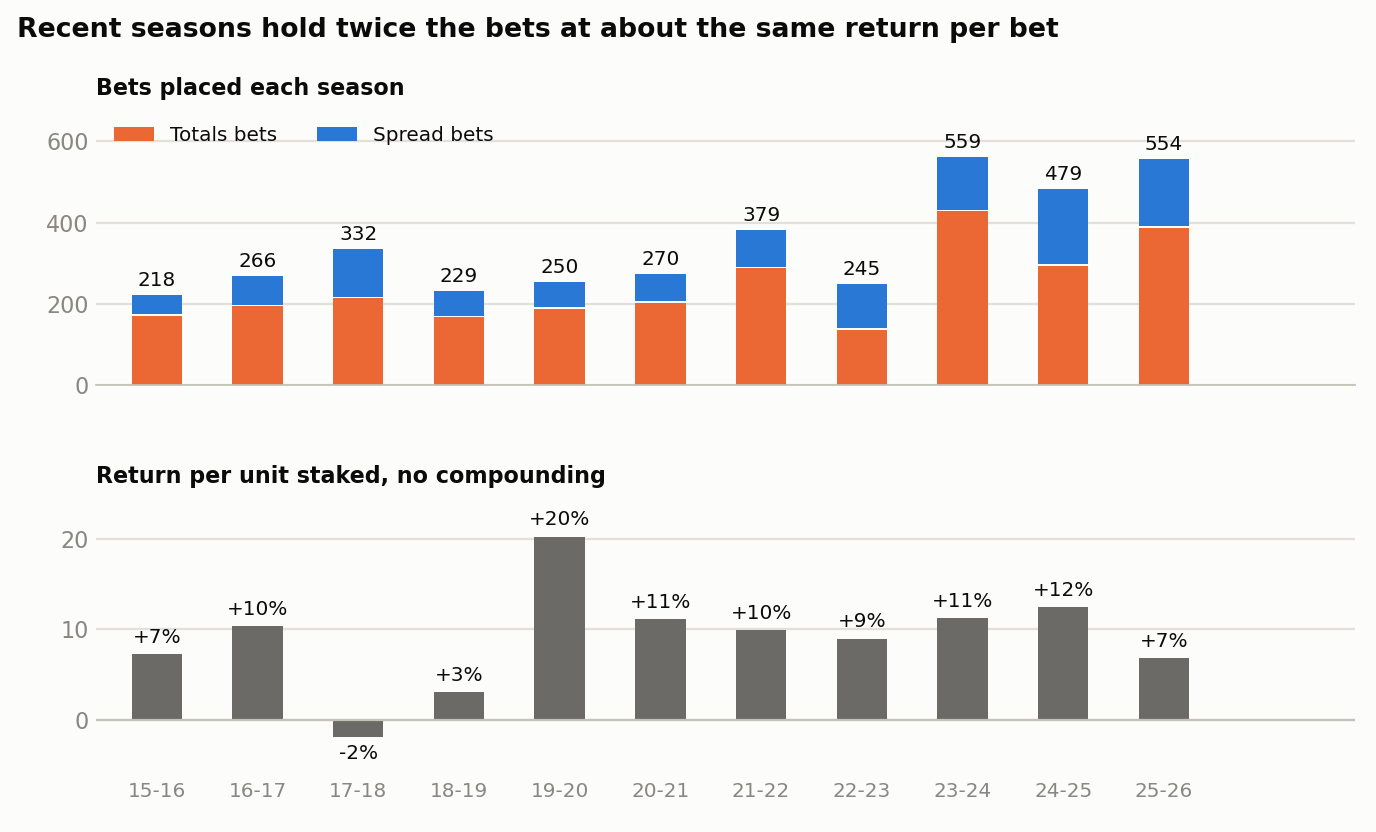
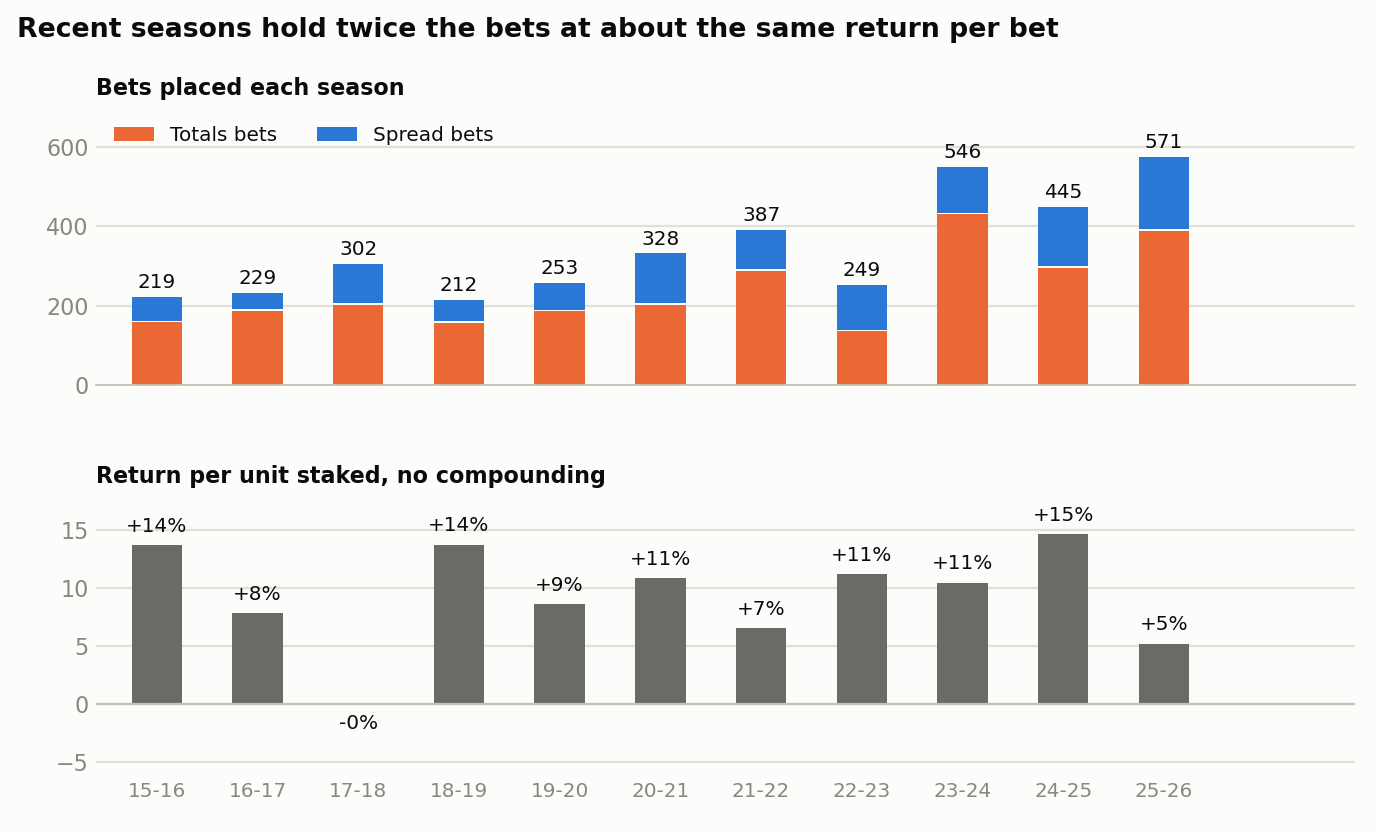
Spread backtest rebuilt on weights learned from earlier seasons; front chart shows return per unit staked

diff --git a/docs/STRATEGIES.md b/docs/STRATEGIES.md
@@ -16,17 +16,17 @@ Everything here assumes the opening line is actually bet, which has not been sho
 
 | Strategy | Bets per season | Cover | ROI per bet | Season return at 1% stakes | Status |
 |---|---|---|---|---|---|
-| Spread, model gap 2+ points | 54 | 58.3% | +11.3% | +6.1% | Backtest only |
+| Spread, model gap 2+ points | 57 | 56.4% | +7.7% | +4.4% | Backtest only |
 | Totals, model gap 2+ points | 170 | 55.3% | +5.5% | +9.3% | Passed a pre-declared test |
 | Totals, same rule on 2007-12 (never tuned on) | 137 | 57.4% | +9.5% | +13.0% | Holdout |
 | Totals, bet only within 1 point of the opener | about 140 | about 55.3% | about +5.5% | about +8% | Under live test |
-| Either rule, stake in proportion to the gap | same bets | same | +12.2% spread, +6.9% totals | +8.4%, +16.1% | Logged beside the flat stake |
+| Either rule, stake in proportion to the gap | same bets | same | +9.1% spread, +6.9% totals | +6.7%, +16.1% | Logged beside the flat stake |
 | Moneyline, four rules frozen before the season | about 75 | not comparable | no line value | not estimated | Live; likely no edge |
 | Player points | not a rule yet | 52.6% at a 5+ point probability gap | +0.7% | not estimated | Not bettable |
 
 The gap is how far the model's number sits from the line, in points.
 
-The spread model was developed on 2021-22 to 2025-26, so those seasons flatter it. On the nine seasons before, which had no part in building it, the spread rule covers 56.2% on 361 bets for +7.3% per bet, against 60.2% on 392 bets since; the earlier figure is the cleaner one. The totals model was specified before its results were looked at.
+Every weight behind these figures was learned from seasons before the one being scored. An earlier version of this page combined the spread model's pieces as they had been designed on 2021-22 to 2025-26, which flattered those seasons (60.2% against 56.2% before); with the weights learned walk-forward the rule covers 57.1% on 392 bets in 2012-21 and 55.7% on 409 since, and [how the pieces are weighted](#how-the-pieces-are-weighted) has the detail. The totals model was specified before its results were looked at.
 
 The 2024-25 opening lines behind these figures were repaired after a fault in the source feed, which the [engine page](ENGINE.md#a-repair-to-the-2024-25-opening-lines) describes.
 
@@ -42,36 +42,36 @@ The rule bets the model's side when its corrected margin is 2 or more points fro
 
 ### Where the edge comes from
 
-Across 15,911 games the final margin moves 0.36 points for every point the model disagrees with the opener. A plain ratings model built from results in 20 lines of code earns 0.09, and it adds nothing once the full model is included. The player ratings, minutes and availability inputs are therefore doing the work.
+Across 15,911 games the final margin moves 0.39 points for every point the model disagrees with the opener. A plain ratings model built from results in 20 lines of code earns 0.09, and it adds nothing once the full model is included. The player ratings, minutes and availability inputs are therefore doing the work.
 
 ### Bigger gaps cover more
 
-A gap of a given size, set against an outcome spread of 12.6 points, implies a cover rate, and actual results follow it loosely: the middle band falls short and the top band overshoots.
+A gap of a given size, set against an outcome spread of 12.6 points, implies a cover rate, and actual results follow it loosely: the two lower bands fall short of it and the top band matches.
 
 | Gap | Implied by the model | Actual | Bets |
 |---|---|---|---|
-| 2 to 2.5 | 56.9% | 57.8% | 460 |
-| 2.5 to 3 | 58.5% | 55.2% | 181 |
-| 3+ | 61.7% | 65.2% | 112 |
+| 2 to 2.5 | 57.0% | 55.4% | 480 |
+| 2.5 to 3 | 58.5% | 55.0% | 189 |
+| 3+ | 61.5% | 62.1% | 132 |
 
 ### By month
 
 | Month | Cover | Bets |
 |---|---|---|
-| Oct-Nov | 63.6% | 236 |
-| Dec | 56.3% | 87 |
-| Jan | 52.4% | 63 |
-| Feb | 52.3% | 65 |
-| Mar | 60.1% | 153 |
-| Apr | 53.8% | 130 |
+| Oct-Nov | 61.9% | 215 |
+| Dec | 53.8% | 80 |
+| Jan | 58.5% | 82 |
+| Feb | 51.2% | 86 |
+| Mar | 58.2% | 170 |
+| Apr | 49.3% | 144 |
 
 ### Best in October and November
 
-The model is no more accurate per point early in the season. It earns 0.30 points of result per point of gap in October and November, against 0.42 from December to March. What changes is how far it disagrees with the opener: the spread of that disagreement is 3.1 points early and 2.6 later. As a result 6.4% of early games reach the 2-point threshold, compared with 3.2% later, and they clear it by more.
+The model is no more accurate per point early in the season. It earns 0.34 points of result per point of gap in October and November, against 0.43 from December to March. What changes is how far it disagrees with the opener: the spread of that disagreement is 2.9 points early and 2.6 later. As a result 5.8% of early games reach the 2-point threshold, compared with 3.6% later, and they clear it by more.
 
-### April is weakest
+### April loses
 
-April is where the model disagrees with the opener most, at 3.4 points, and is right least, at 0.22 points of result per point of gap, so its bets cover only 53.8%. April games also carry more expected absences: 2.7 a game against 1.9. An earlier version of this page blamed those absences, but the split does not hold on the rebuilt model: on 2019-26, April bets in games with three or more expected absences covered 55.0% (40 bets) and the rest 57.1% (28 bets). Giving April its own, lower trust did not help out of sample either, so the weak month is unexplained.
+April is where the model disagrees with the opener most, at 3.4 points, and is right least, at 0.26 points of result per point of gap, and its bets cover 49.3%, which is below break-even. April games also carry more expected absences, 2.7 a game against 1.9, and on 2019-26 the April bets in games with three or more expected absences covered 45.7% (46 bets) against 54.5% for the rest (33 bets). That points at absences, but on samples far too small to settle it, and the same split pointed the other way on an earlier build of the model. April stays a known weak month without an explanation.
 
 ## Totals rule
 
@@ -132,9 +132,9 @@ February is strong in both samples, and the All-Star break is not the reason, si
 
 ## Sizing and thresholds
 
-Staking in proportion to the gap (1 unit at 2 points, capped at 2.5) raises ROI from +11.3% to +12.2% on spreads and from +5.5% to +6.9% on totals. This follows from the gap tables above, because bigger gaps cover more. It trims the losing seasons from 2 of 14 to 1 on each rule.
+Staking in proportion to the gap (1 unit at 2 points, capped at 2.5) raises ROI from +7.7% to +9.1% on spreads and from +5.5% to +6.9% on totals. This follows from the gap tables above, because bigger gaps cover more. It trims the losing seasons from 4 of 14 to 3 on spreads and from 2 to 1 on totals.
 
-A higher threshold gives more per bet and less in total. Spread bets at a gap of 2.5+ cover 59.0% for +12.7%, on 21 bets a season. Totals bets at 3+ cover 59.7% for +13.9%, on 44 a season.
+A higher threshold gives more per bet and less in total. Spread bets at a gap of 2.5+ cover 57.9% for +10.6%, on 23 bets a season. Totals bets at 3+ cover 59.7% for +13.9%, on 44 a season.
 
 On the totals rule, quarter Kelly returned +9.6% a season on average, with a median of +4.7% and a standard deviation of 14.0%. Full Kelly reached a 68% drawdown; the detail is in [SEASON_2026_27.md](SEASON_2026_27.md).
 
@@ -146,13 +146,13 @@ The table runs both rules together with sized stakes, where the base stake is a 
 
 | Base stake | Median season | Worst season | Losing seasons | Worst drawdown within a season |
 |---|---|---|---|---|
-| 1% | +20.5% | -7.3% | 2 of 14 | 21% |
-| 2% | +37.8% | -17.1% | 2 of 14 | 42% |
-| 3% | +54.9% | -30.1% | 2 of 14 | 55% |
-| 5% | +79.4% | -57.5% | 3 of 14 | 70% |
-| 8% | +89.3% | -75.1% | 3 of 14 | 81% |
+| 1% | +17.6% | -10.3% | 2 of 14 | 22% |
+| 2% | +33.2% | -22.5% | 2 of 14 | 43% |
+| 3% | +46.8% | -37.0% | 3 of 14 | 55% |
+| 5% | +65.0% | -64.8% | 2 of 14 | 72% |
+| 8% | +61.0% | -82.1% | 2 of 14 | 86% |
 
-Drawdown grows almost in step with the stake, and the median return stops growing before the drawdown does: at a 12% base stake the median is +75.7%, below the 8% row, with a 91% drawdown and five losing seasons. The longest losing run was 10 bets, and the busiest night carried 17 bets at once. Mean returns run far above the medians at the larger stakes, because a few seasons compound to several times the bankroll, which is why the table leaves them out.
+Drawdown grows almost in step with the stake, and the median return stops growing before the drawdown does: the 8% row already sits below the 5% row, and at a 12% base stake the median is +49.0% with a 95% drawdown. The longest losing run was 11 bets, and the busiest night carried 18 bets at once. Mean returns run far above the medians at the larger stakes, because a few seasons compound to several times the bankroll, which is why the table leaves them out.
 
 ## Why the rules win
 
@@ -174,19 +174,18 @@ Cover rises with every step, and so does the amount by which the bets beat the c
 
 The older seasons stay behind the recent ones at every level, so the missing feed explains part of that gap and not all of it.
 
-### Retuned on other seasons
+### How the pieces are weighted
 
-The spread model was designed on 2021-22 to 2025-26, so two checks ask how much of its result depends on that. In the first, the model's five pieces (two team-strength estimates, a schedule term, a late-season tanking term and the availability adjustments) were re-weighted by a regression fitted on a random half of the 19 seasons and scored on the other half, 100 times over.
+The market-blind spread model is the sum of five pieces: a team-strength estimate from the four factors, a second one from player ratings and expected minutes, a schedule term for home court and back-to-backs, a late-season tanking term, and a set of late-season and absence adjustments. As first built the pieces were simply added, the tanking term was switched on only from 2020-21, and the whole arrangement was designed on 2021-22 to 2025-26. That flattered those seasons, and nearly all of the flattery came from the tanking term.
+
+The backtest on this page now gives each piece a weight, refitted before every season by a regression of the final margin on the five pieces over all earlier seasons, and it switches the tanking term on throughout. Six numbers are tuned in all, the five weights and a constant, and none of them has seen the season it scores. The weights hold steady from year to year: about 0.6 on the four-factor piece, 1.2 on the player piece, 0.9 to 1.0 on schedule and tanking, and 0.3 rising to 0.8 on the adjustments.
 
 | Spread rule, gap 2+ | 2012-21 | 2021-26 | All 14 seasons |
 |---|---|---|---|
-| The model as designed | 55.5% | 60.4% | 58.0% |
-| Weights retuned on random other seasons | 54.6% | 57.2% | 55.9% |
-| As designed, without the tanking term | 55.5% | 54.8% | 55.2% |
+| As first built, designed on 2021-26 | 56.2% | 60.2% | 58.3% |
+| Weights learned from earlier seasons (this page) | 57.1% | 55.7% | 56.4% |
 
-Nearly all of the advantage in the development seasons comes from one piece: the tanking term, which the shipped model only switches on from 2020-21. Without it those seasons cover 54.8%, the same as the earlier ones. The second check therefore switched that term on for 2012-20 as well, seasons it was never designed on, with its coefficient learned from earlier seasons. It lifted the spread rule there from 55.9% to 57.0% on 337 bets, a gain inside the noise and far short of the five points it adds where it was built.
-
-The fair reading is a spread rule that covers about 56%, not 58%, and whose best seasons owe a good deal to a term tuned on those seasons.
+Walk-forward was chosen on principle, and then checked against 1,375 other ways of picking the tuning seasons: random samples of a third, a half, two-thirds or all of the seasons before each of ten cutoff years, with recent seasons weighted more, less or equally. On a simplified version of this backtest the spread rule covered 55.7% on average across them, with nine in ten between 54.1% and 57.5% and 99% above break-even, and no cutoff, sample size or weighting moved the average by more than about a point. The model as first built sat above 98% of them, which is what a design fitted to its own test seasons looks like. Weighting recent seasons more heavily, or fitting on only the last five or eight, left the forecast error unchanged and made the best season larger, so the plain version was kept.
 
 ### Not roster or league change
 
@@ -194,13 +193,13 @@ A model built on player ratings might be expected to win most when rosters chang
 
 | Combined turnover | Spread cover | Bets | Totals cover | Bets |
 |---|---|---|---|---|
-| Low | 57.4% | 237 | 54.9% | 887 |
-| Middle | 57.4% | 270 | 54.9% | 827 |
-| High | 60.2% | 246 | 56.2% | 666 |
+| Low | 57.8% | 249 | 54.9% | 887 |
+| Middle | 56.5% | 294 | 54.9% | 827 |
+| High | 55.0% | 258 | 56.2% | 666 |
 
-In a regression of win on gap, turnover and early season, the turnover coefficient is about zero for both rules (p = 0.48 on spreads and 0.73 on totals). The model's disagreement with the opener is also no wider when turnover is high. The early-season spread edge does not come from new rosters either, since October and November bets covered 67.1% in low-turnover games (85 bets) and 66.7% in high-turnover games (78 bets). Backing the team that was worse last season covered 58.6% (290 bets), against 58.0% for backing the better one (462 bets).
+In a regression of win on gap, turnover and early season, the turnover coefficient is about zero for both rules (p = 0.57 on spreads and 0.73 on totals). The model's disagreement with the opener is also no wider when turnover is high. The early-season spread edge does not come from new rosters either, since October and November bets covered 67.6% in low-turnover games (74 bets) and 64.0% in high-turnover games (75 bets). Backing the team that was worse last season covered 56.9% (378 bets), against 55.9% for backing the better one (422 bets).
 
-Season by season the picture is the same. Spread cover is uncorrelated with league-wide turnover (-0.03) and with the year-on-year change in league scoring (+0.19, on 14 seasons). Totals cover falls with league turnover (-0.56), which is most likely a shared time trend, because turnover has drifted down over the years in which totals bets have grown.
+Season by season the picture is the same. Spread cover is uncorrelated with league-wide turnover (-0.04) and with the year-on-year change in league scoring (+0.09, on 14 seasons). Totals cover falls with league turnover (-0.56), which is most likely a shared time trend, because turnover has drifted down over the years in which totals bets have grown.
 
 ### Not periods of change either
 
@@ -208,18 +207,18 @@ The same question was asked of the stretches when rosters shift during a season,
 
 | Cut | Spread cover | Bets | Totals cover | Bets |
 |---|---|---|---|---|
-| Rotation stable over the last 15 games | 62.2% | 119 | 56.5% | 503 |
-| Rotation churning | 56.1% | 262 | 57.1% | 694 |
-| 28 days before the trade deadline | 56.9% | 51 | 53.1% | 254 |
-| 21 days after the trade deadline | 48.4% | 64 | 61.8% | 254 |
-| First 20 games, a rebuilt team in the game | 63.9% | 119 | 50.2% | 263 |
-| First 20 games, no rebuilt team | 60.6% | 137 | 52.6% | 456 |
-| 30 days after the deadline, a traded team in the game | 48.5% | 66 | 57.6% | 210 |
-| 30 days after the deadline, no traded team | 62.5% | 32 | 61.1% | 131 |
+| Rotation stable over the last 15 games | 64.8% | 128 | 56.5% | 503 |
+| Rotation churning | 51.3% | 302 | 57.1% | 694 |
+| 28 days before the trade deadline | 61.3% | 62 | 53.1% | 254 |
+| 21 days after the trade deadline | 48.5% | 101 | 61.8% | 254 |
+| First 20 games, a rebuilt team in the game | 61.2% | 116 | 50.2% | 263 |
+| First 20 games, no rebuilt team | 59.7% | 124 | 52.6% | 456 |
+| 30 days after the deadline, a traded team in the game | 50.0% | 92 | 57.6% | 210 |
+| 30 days after the deadline, no traded team | 55.4% | 56 | 61.1% | 131 |
 
-Churn compares who played a team's last 5 games with the 10 before. A rebuilt team is in the top quarter for offseason turnover, and a traded team is one whose deadline arrivals went on to play 10% or more of its minutes. When rotations are churning the spread model fires on more games (5.9% against 2.7%) but is right less per point of gap (1.02 against 1.43), so cover does not improve. The jump in totals cover after the deadline looked like a finding until it was run on the 2007-12 holdout, where it reversed to 59.8% before the deadline and 50.6% after.
+Churn compares who played a team's last 5 games with the 10 before. A rebuilt team is in the top quarter for offseason turnover, and a traded team is one whose deadline arrivals went on to play 10% or more of its minutes. When rotations are churning the spread model fires on more games (6.8% against 2.9%) but is right less per point of gap (0.94 against 1.42), so cover falls instead of rising. The jump in totals cover after the deadline looked like a finding until it was run on the 2007-12 holdout, where it reversed to 59.8% before the deadline and 50.6% after.
 
-One pattern points the other way and is recorded here as a lead. On spreads, bets where the model backs a rebuilt team covered 63.2% (125 bets), while bets where it fades one covered 54.6% (141 bets), and the same gap appears early in the season though not after the deadline. The samples overlap, though, and a single test with no thresholds is positive without being significant (p = 0.16), so it waits for a season it was not found on.
+One pattern points the other way and is recorded here as a lead. On spreads, bets where the model backs a rebuilt team covered 60.1% (153 bets), while bets where it fades one covered 52.3% (128 bets), and the same direction shows after the deadline and, more weakly, early in the season. The samples overlap, though, and a single test with no thresholds is positive without being significant (p = 0.16), so it waits for a season it was not found on.
 
 If the edge came from understanding change it should rise with turnover, and it does not. What the bets have in common is a rough opening number: bet counts more than doubled from 2023, as opening totals began to sit further from the model.
 
@@ -242,4 +241,4 @@ Two of these looked like improvements until they were run on seasons they had no
 
 ## Open questions
 
-The first unknown is whether the opening line can be bet in practice, since both rules lose their edge at later prices. The second is whether any of this holds live, which the paper views began recording on 2026-11-16. The last three seasons also supply most of the backtest profit, because they hold far more bets than the earlier ones. One of them, 2024-25, accounts for 38% of the spread rule's profit on its own (68.9% on 103 bets); without it the rule covers 56.6% on 650 bets. Its rules were learned from earlier seasons and the result holds at two other sources of opening lines, but the choice of which rules to report was made with that season in view.
+The first unknown is whether the opening line can be bet in practice, since both rules lose their edge at later prices. The second is whether any of this holds live, which the paper views began recording on 2026-11-16. The last three seasons also supply most of the backtest profit, because they hold far more bets than the earlier ones. One of them, 2024-25, accounts for 22% of the spread rule's profit on its own (60.0% on 95 bets); without it the rule covers 55.9% on 706 bets. Its rules were learned from earlier seasons and the result holds at two other sources of opening lines, but the choice of which rules to report was made with that season in view.

diff --git a/docs/ENGINE.md b/docs/ENGINE.md
@@ -2,13 +2,15 @@
 
 This page asks what happens when every rule on the [strategies page](STRATEGIES.md) is used at once. The engine bets by size of disagreement, by time of season and by side, and sizes each stake to the estimated edge. Each season is bet with rules learned from earlier seasons.
 
-The median season return is +57% of bankroll at quarter Kelly, with ten profitable seasons in 11. Most of that comes from staking more on the same edge. All of it assumes the opening line can be bet.
+Per unit staked the engine returns about +9%, and between 0% and +15% in every one of the 11 seasons. Compounded at quarter Kelly that is a median season of +55% of bankroll; ten seasons are profitable and the other finishes flat, at -0.2%. The season returns are the same edge multiplied by stake size, and all of it assumes the opening line can be bet.
+
+![return per unit staked by season](../charts/engine_per_unit.png)
 
 ![season return by season](../charts/engine_by_season.png)
 
 ## How it works
 
-The candidates are the 6,248 games from 2012-13 to 2025-26 where the spread model or the totals model is 1.5 or more points from the opening line. Each model's prediction for a season comes from a fit on earlier seasons. The spread model knows who is expected to play from the injury-report feed where one exists (December 2018 on) and from a synthetic feed built from box scores before that; the [strategies page](STRATEGIES.md#knowing-who-plays) shows what each is worth.
+The candidates are the 6,404 games from 2012-13 to 2025-26 where the spread model or the totals model is 1.5 or more points from the opening line. Each model's prediction for a season comes from a fit on earlier seasons, and that includes the weights that combine the spread model's five pieces, which are refitted before each season on the seasons before it ([how the pieces are weighted](STRATEGIES.md#how-the-pieces-are-weighted)). The spread model knows who is expected to play from the injury-report feed where one exists (December 2018 on) and from a synthetic feed built from box scores before that; the [strategies page](STRATEGIES.md#knowing-who-plays) shows what each is worth.
 
 For each test season, a regression is fitted on the candidates of earlier seasons. It estimates whether a bet wins from the size of the gap, the market, the part of the season and the side taken. The stake is a quarter of the Kelly stake that probability implies. There is no bet at or below break-even, and no more than 25% of the bankroll is at risk on one night.
 
@@ -18,40 +20,40 @@ The test seasons are 2015-16 to 2025-26, and nothing from a test season is used 
 
 | Engine | Median season | Worst season | Largest drawdown | ROI per unit staked | Bets per season |
 |---|---|---|---|---|---|
-| Gap size only | +42.2% | -7.7% | 30% | +10.4% | 402 |
-| + time of season | +75.0% | -14.1% | 36% | +9.6% | 364 |
-| + side | +44.9% | +1.9% | 34% | +9.6% | 368 |
-| All rules | +57.3% | -10.8% | 34% | +9.0% | 344 |
+| Gap size only | +40.6% | -1.2% | 30% | +9.7% | 410 |
+| + time of season | +61.8% | -1.2% | 33% | +8.7% | 352 |
+| + side | +47.3% | +5.9% | 30% | +10.5% | 369 |
+| All rules | +55.3% | -0.2% | 31% | +9.4% | 340 |
 
-The seasonal rules beat the gap-only engine in 8 of 11 seasons, and all rules together beat it in 7. The means sit well above the medians because the last three seasons were large: the all-rules mean is +102.5%, and without 2024-25 the mean is +69.8% and the median +55.0%.
+The seasonal rules beat the gap-only engine in 7 of 11 seasons, and all rules together beat it in 8. The means sit well above the medians because 2023-24 and 2024-25 were large: the all-rules mean is +93.2%, and without 2024-25 the mean is +66.3% and the median +55.2%.
 
-Larger stakes raise both the return and the risk. At half Kelly the all-rules median is +127% with a 59% drawdown. At full Kelly it is +216%, with an 82% drawdown and a worst season of -66%.
+Larger stakes raise both the return and the risk. At half Kelly the all-rules median is +117% with a 54% drawdown. At full Kelly it is +234%, with a 73% drawdown and a worst season of -57%.
 
 | Season | Bets | Cover | ROI per unit staked | Season return | Largest drawdown |
 |---|---|---|---|---|---|
-| 2015-16 | 218 | 57.3% | +7.2% | +21.6% | 12% |
-| 2016-17 | 266 | 55.6% | +10.3% | +52.7% | 13% |
-| 2017-18 | 332 | 52.1% | -1.9% | -10.8% | 34% |
-| 2018-19 | 229 | 53.3% | +3.0% | +9.3% | 25% |
-| 2019-20 | 250 | 56.4% | +20.2% | +91.9% | 14% |
-| 2020-21 | 270 | 58.1% | +11.1% | +57.3% | 11% |
-| 2021-22 | 379 | 58.8% | +9.9% | +107.6% | 29% |
-| 2022-23 | 245 | 57.6% | +8.9% | +41.5% | 22% |
-| 2023-24 | 559 | 54.2% | +11.2% | +204.2% | 19% |
-| 2024-25 | 479 | 58.2% | +12.4% | +429.3% | 26% |
-| 2025-26 | 554 | 55.4% | +6.8% | +123.1% | 28% |
+| 2015-16 | 219 | 59.4% | +13.7% | +55.3% | 14% |
+| 2016-17 | 229 | 56.3% | +7.9% | +46.9% | 13% |
+| 2017-18 | 302 | 50.3% | 0.0% | -0.2% | 21% |
+| 2018-19 | 212 | 58.5% | +13.8% | +48.5% | 21% |
+| 2019-20 | 253 | 53.8% | +8.7% | +38.4% | 29% |
+| 2020-21 | 328 | 58.2% | +10.9% | +82.8% | 13% |
+| 2021-22 | 387 | 57.6% | +6.5% | +70.1% | 31% |
+| 2022-23 | 249 | 57.8% | +11.2% | +55.2% | 19% |
+| 2023-24 | 546 | 53.8% | +10.5% | +184.2% | 20% |
+| 2024-25 | 445 | 58.4% | +14.7% | +362.1% | 20% |
+| 2025-26 | 571 | 55.3% | +5.2% | +81.8% | 27% |
 
-## Why the last three seasons are so large
+## Why recent seasons are larger
 
-The three largest returns are the three most recent seasons, and part of that deserves suspicion. Every weight used to bet a season was learned from earlier seasons only, but the spread model itself, meaning its inputs and settings, was developed on 2021-22 to 2025-26, so those five seasons are not a clean test of it. The spread rule covers 60.2% in them and 56.2% in the nine seasons before, which had no part in building the model, and 56.2% is the figure to trust. The engine's median season is +37% over the six test seasons before 2021-22 and +123% over the five from then on. The totals model was specified in November 2026 before its results were looked at, and its gap between the two periods is smaller (56.4% against 54.1%).
+The two largest returns are 2023-24 and 2024-25, and in a backtest that deserves suspicion. An earlier version of this page had a real problem here: the spread model's pieces were combined as they had been designed on 2021-22 to 2025-26, and the spread rule covered 60.2% in those seasons against 56.2% before. The pieces are now weighted from earlier seasons only, and that gap is gone, with the rule covering 55.7% from 2021-22 on and 57.1% in the nine seasons before. What still carries hindsight is the choice of the pieces themselves, which was made with recent seasons in view. The totals model was specified in November 2026 before its results were looked at.
 
-The rest is volume, not a higher return per bet: per unit staked, 2023-24 and 2024-25 earned 11 to 12%, in line with 2020-21 and well below 2019-20.
+What is left is volume, not a higher return per bet: per unit staked, 2023-24 earned 10.5% and 2024-25 14.7%, against 13.7% in 2015-16 and 13.8% in 2018-19.
 
 ![bets and return per unit staked by season](../charts/engine_bets_and_roi.png)
 
-The engine placed 531 bets a season from 2023-24 on, against 274 before, as opening totals began to sit further from the model, and it staked about 2.1% of the bankroll on each where it had staked about 1.5%. Total stakes over a season therefore rose from roughly four times the bankroll to about eleven, and because each stake is a share of the current bankroll, the same edge compounds into a far larger season. The stake sizes are also why these figures should not be read as achievable: opening lines carry low limits, and nobody gets eleven times their bankroll down on them in a season.
+The engine placed 521 bets a season from 2023-24 on, against 272 before, as opening totals began to sit further from the model, at about the same stake on each (2.0% of the bankroll against 1.8%). Total stakes over a season therefore rose from roughly five times the bankroll to about ten, and because each stake is a share of the current bankroll, the same edge compounds into a far larger season. The stake sizes are also why these figures should not be read as achievable: opening lines carry low limits, and nobody gets ten times their bankroll down on them in a season.
 
-Profit per bet barely changed. Across the two flat-stake rules, bets covered 55.8% for +6.5% per bet up to 2022-23 and 56.3% for +7.4% from 2023-24 on, while the number of bets a season went from 177 to 396, most of the increase in totals. Two checks rule out the obvious objections. Rerunning the totals model on opening lines from a second source gives the same volume and a 55.4% cover rate, so the extra bets are not a quirk of one data feed; and a totals model fitted on 2007-17 and never updated still covers 56.1% in 2023-26, on 227 bets a season against 157 before, so they are not a fit to recent seasons either. The volume is still the part least likely to carry over: so far this season 11% of totals reach the 2-point threshold at the line actually on screen, against 25% in the backtest's recent seasons.
+Profit per bet barely changed. Across the two flat-stake rules, bets covered 55.7% for +6.4% per bet up to 2022-23 and 55.2% for +5.4% from 2023-24 on, while the number of bets a season went from 182 to 393, most of the increase in totals. Two checks rule out the obvious objections. Rerunning the totals model on opening lines from a second source gives the same volume and a 55.4% cover rate, so the extra bets are not a quirk of one data feed; and a totals model fitted on 2007-17 and never updated still covers 56.1% in 2023-26, on 227 bets a season against 157 before, so they are not a fit to recent seasons either. The volume is still the part least likely to carry over: so far this season 11% of totals reach the 2-point threshold at the line actually on screen, against 25% in the backtest's recent seasons.
 
 ## A repair to the 2024-25 opening lines
 
@@ -69,30 +71,30 @@ Fitted on all seasons, the engine assigns these win rates to typical bets.
 | Totals over, gap 2, Oct-Nov | 50.3% | No |
 | Totals under, gap 2, Dec-Jan | 57.5% | Yes |
 | Totals over, gap 4, Dec-Jan | 60.4% | Yes |
-| Spread, gap 2, Oct-Nov | 59.1% | Yes |
-| Spread, gap 3, Oct-Nov | 63.1% | Yes |
-| Spread, gap 2, April | 52.1% | No |
+| Spread, gap 2, Oct-Nov | 56.1% | Yes |
+| Spread, gap 3, Oct-Nov | 59.7% | Yes |
+| Spread, gap 2, April | 54.1% | Yes |
 
 These are the patterns on the strategies page, except that here each was learned from earlier seasons and then applied to the next one.
 
 ## A simpler engine
 
-The simpler engine groups bets by market and gap size. It estimates each group's win rate from earlier seasons, pulls that estimate strongly toward break-even, and bets the groups that still clear it. It stakes less and places 185 bets a season.
+The simpler engine groups bets by market and gap size. It estimates each group's win rate from earlier seasons, pulls that estimate strongly toward break-even, and bets the groups that still clear it. It stakes less and places 193 bets a season.
 
 | | Median season | Mean | Volatility (sd) | Worst | Losing seasons | ROI per unit staked |
 |---|---|---|---|---|---|---|
-| Totals + spread | +13.7% | +35.9% | 58.2% | -1.5% | 1 of 11 | +11.4% |
+| Totals + spread | +12.0% | +26.8% | 33.6% | -9.9% | 1 of 11 | +10.5% |
 | Totals only | +9.0% | +19.8% | 26.7% | -3.1% | 2 of 11 | +9.8% |
-| Spread only | +4.0% | +11.6% | 26.3% | -6.9% | 1 of 11 | +14.7% |
+| Spread only | +3.5% | +5.3% | 10.5% | -6.9% | 3 of 11 | +9.5% |
 
-## Where the +57% comes from
+## Where the +55% comes from
 
-The figure is leverage, not extra skill: ROI per unit staked is about +9% in the full engine and +11.4% in the simple one. The full engine returns more because it places 344 bets a season at larger stakes. Adding the seasonal and side rules does not improve the win-probability forecast itself, whose log loss goes from 0.68647 to 0.68680.
+The figure is leverage, not extra skill: ROI per unit staked is about +9% in the full engine and +10.5% in the simple one. The full engine returns more because it places 340 bets a season at larger stakes. Adding the seasonal and side rules does not improve the win-probability forecast itself, whose log loss goes from 0.68735 to 0.68755.
 
 More bets did not mean more profit per bet. Bets per season more than doubled after 2022, as opening totals began moving more and the lower-gap groups, which win about 54%, came into play.
 
 The figure also assumes every opening line is bet at -110 with 2 to 4% of the bankroll. First lines carry low limits, and most of their move toward the close happens overnight and on game day.
 
-The engine is not safe from a bad year. In 2017-18 it won 52.1% of its bets, lost 1.9% per unit staked and finished down 10.8% after a 34% drawdown, and the gap-only and seasonal versions each have a losing season too.
+The engine is not safe from a bad year. In 2017-18 it won 50.3% of its bets, earned nothing per unit staked and finished down 0.2% after a 21% drawdown; the gap-only and seasonal versions each lost 1.2% that season, and the simpler engine lost 9.9%.
 
 None of this has been shown live; the paper views began recording the price actually available on 2026-11-16.

diff --git a/README.md b/README.md
@@ -6,16 +6,16 @@ A market-anchored NBA model for spreads and totals, together with the research r
 
 | | |
 |---|---|
-| +57% | Median season return of the full betting engine at quarter Kelly, across 11 seasons it had not seen, ten of them profitable. |
-| 56.1% | Share of the engine's bets won, against a break-even of 52.4%, for a return of about +9% per unit staked on 344 bets a season. |
-| 58.3% | Share of spread-rule bets won when the model is 2 or more points from the opening spread, over 753 bets from 2012 to 2026; 56.2% on the nine seasons the model was not developed on. |
+| +55% | Median season return of the full betting engine at quarter Kelly, across 11 seasons it had not seen; ten were profitable and the other finished flat, at -0.2%. |
+| 56.3% | Share of the engine's bets won, against a break-even of 52.4%, for a return of about +9% per unit staked on 340 bets a season. |
+| 56.4% | Share of spread-rule bets won when the model is 2 or more points from the opening spread, over 801 bets from 2012 to 2026, with every weight in the model learned from earlier seasons. |
 | 55.3% | Share of totals-rule bets won when the model is 2 or more points from the opening total, over 2,380 bets; it beat break-even in 12 of 14 seasons and won 57.4% on five further seasons it was never tuned on. |
 
 These are backtests that assume the opening line is bet, which has not been shown live, and at the prices available later in the day the edge disappears. No capital has been deployed on any of it.
 
-The last three seasons are much the largest, partly because the engine placed twice as many bets in them and partly because the spread model was developed on 2021-26, which flatters those seasons; the [engine page](docs/ENGINE.md#why-the-last-three-seasons-are-so-large) sets out both, along with a repair made to the 2024-25 opening lines.
+Every season is scored with weights learned only from the seasons before it, including the weights that combine the spread model's pieces, so no weight was fitted on the season it scores; the choice of those pieces was still made with recent seasons in view. Per unit staked the engine earned between 0% and +15% in each of them. Compounded at quarter Kelly, 2023-24 and 2024-25 come out much the largest (+184% and +362%) because the engine placed twice as many bets in them; the [engine page](docs/ENGINE.md#why-recent-seasons-are-larger) sets that out, along with a repair made to the 2024-25 opening lines.
 
-![season return by season](charts/engine_by_season.png)
+![return per unit staked by season](charts/engine_per_unit.png)
 
 ## This season, 2026-27
 
@@ -43,7 +43,7 @@ Break-even is 52.4% for totals and spreads and 71.7% for the moneyline book, whi
 
 ## Status
 
-Two paper views began on 2026-11-16, and for every spread and total they record the opening price, the price actually available and the close. A second totals arm, with coefficients refitted on the repaired 2024-25 opening lines, is logged beside the frozen one, and nothing has been bet with real money.
+Two paper views began on 2026-11-16, and for every spread and total they record the opening price, the price actually available and the close. A second totals arm, with coefficients refitted on the repaired 2024-25 opening lines, is logged beside the frozen one, and the day-before spread view logs a second arm that combines the model's pieces with the walk-forward weights used in the backtest. Nothing has been bet with real money.
 
 ## Licence & disclaimer
 

diff --git a/docs/SEASON_2026_27.md b/docs/SEASON_2026_27.md
@@ -234,7 +234,7 @@ Other cuts of the same games agree: totals at a 3+ point gap against the opener 
 | Bet type | This season, through 11-04 | Backtest | Verdict |
 |---|---|---|---|
 | Moneyline, all games | Log loss 0.5769 vs market 0.5704 at 10am | Beat the opener in 13 of 14 seasons | Behind so far, not significant |
-| Spread, gap 2+, first line the day before | 5-0 (10-6 at gap 1.5+) | 58.3% on 753 bets, 2012-26 | Ahead, but very few bets, and the rule was shaped on these dates |
+| Spread, gap 2+, first line the day before | 5-0 (10-6 at gap 1.5+) | 56.4% on 801 bets, 2012-26 | Ahead, but very few bets, and the rule was shaped on these dates |
 | Game totals, gap 2+, opening total | 22-13 | 55.3% on 2,380 bets, 2012-26; 57.4% on 685 bets, 2007-12 | Ahead, clean test |
 | Game totals, gap 2+, first total seen on game day | 14-13 | None | Break-even |
 | Player points | Log loss 0.7147 vs line 0.6904 | None | Worse than the line overall |
